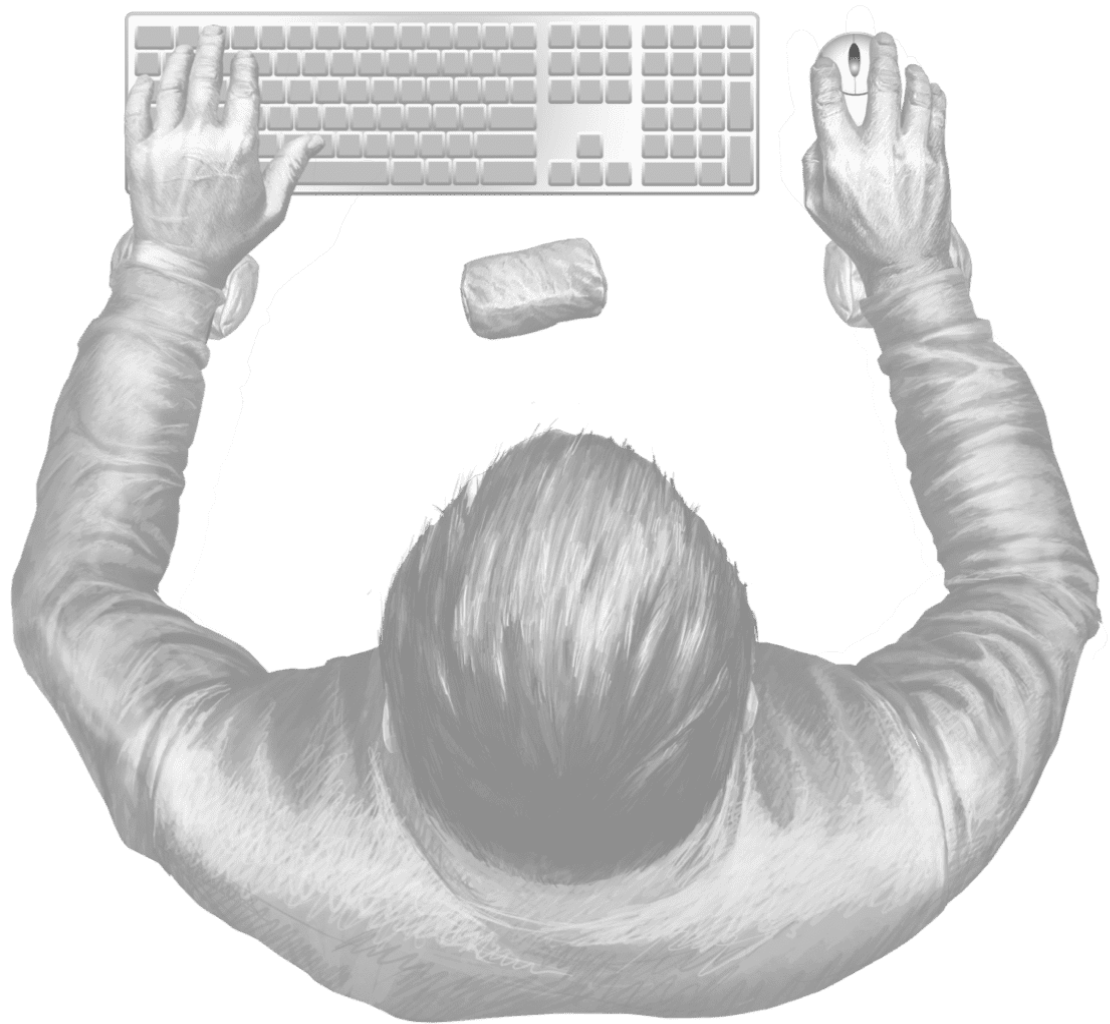
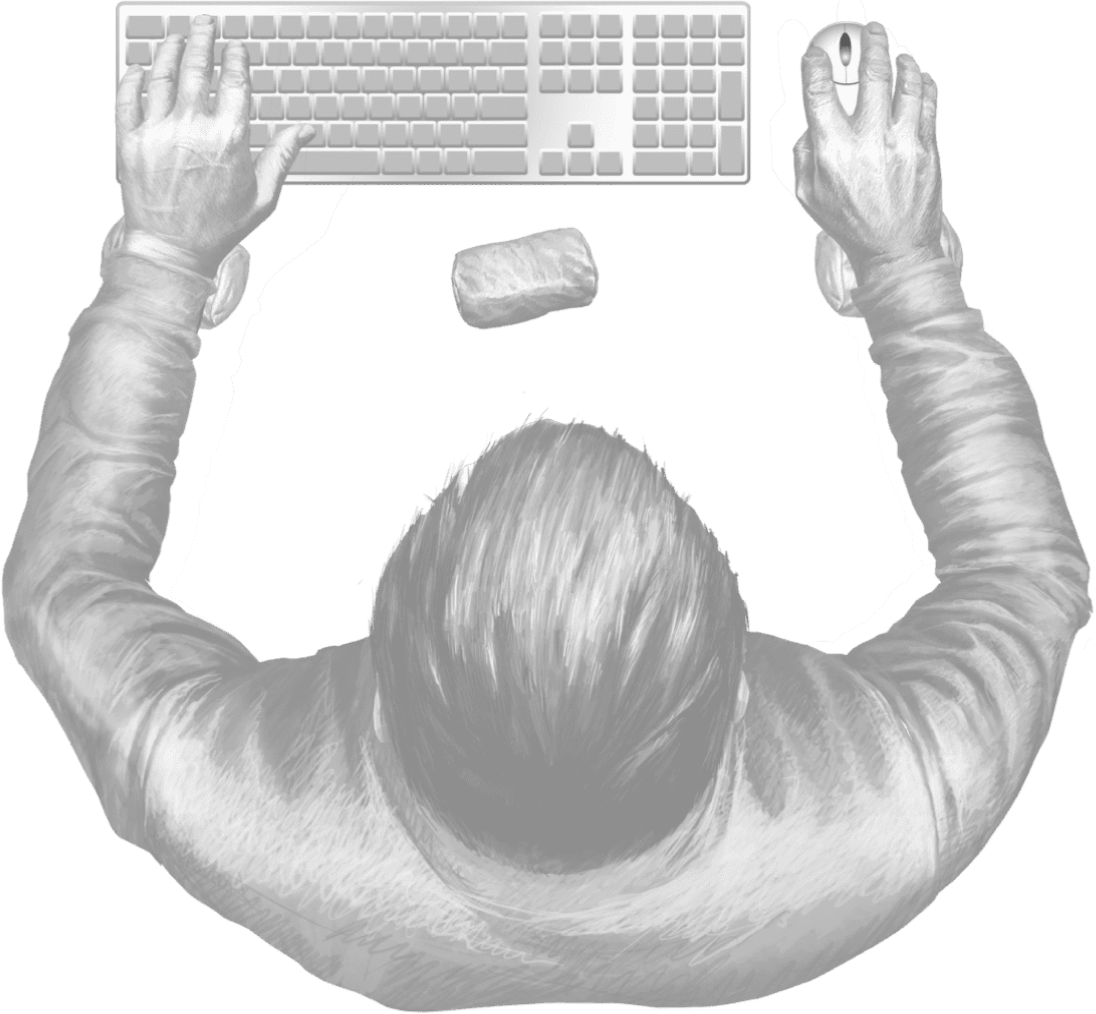
fix sizes

diff --git a/components/Section/Primate/primate.scss b/components/Section/Primate/primate.scss
@@ -11,17 +11,23 @@
     .title {
       position: relative;
       width: 907px;
-      margin: -5px 0 150.5px;
-      transform: translateX(-3px);
+      margin: 0 0 146.5px;
+      transform: translateX(-3px) translateY(-5px);
       font-weight: 800;
       font-size: 82px;
       line-height: 130%;
-      letter-spacing: -0.003em;
+      letter-spacing: 0.003em;
       text-transform: uppercase;
+
+      &.part-2 {
+        letter-spacing: 0.001em;
+        line-height: 134%;
+      }
     }
 
     .list {
       line-height: 185%;
+      letter-spacing: 0.0035em;
     }
   }
 
@@ -29,11 +35,12 @@
     position: relative;
     flex-shrink: 0;
     z-index: 1;
-    transform: translateX(3px);
+    transform: translateX(3px) translateY(1px);
+    margin: 9.5px 0 0 0;
     
     .image {
-      width: 729px;
-      height: 675px;
+      width: 737px;
+      height: 678px;
     }
   }
 }
@@ -43,7 +50,7 @@
   bottom: 0;
   right: 0;
   width: 1020px;
-  height: 249px;
+  height: 251px;
   background: $color-primary;
 
   &:after {
@@ -64,7 +71,7 @@
     width: 0;
     height: 0;
     border: 0 solid transparent;
-    border-top-width: 249px;
+    border-top-width: 252px;
     border-bottom-width: 0px;
     border-right: 80px solid $color-primary;
   }

diff --git a/components/Section/Hand/hand.scss b/components/Section/Hand/hand.scss
@@ -5,7 +5,7 @@
   grid-template-columns: repeat(3, minmax(0, 1fr));
   grid-auto-rows: 488px;
   grid-column-gap: 75px;
-  grid-row-gap: 30px;
+  grid-row-gap: 35px;
 }
 
 .block {
@@ -20,35 +20,35 @@
 .block-1 {
   grid-row-start: 1;
   grid-row-end: 3;
-  height: 675px;
+  height: 680px;
 
   .image {
     left: 0;
     bottom: 0;
-    width: 460px;
-    height: 601px;
+    width: 465px;
+    height: 605px;
   }
 }
 
 .block-2 {
-  height: 488px;
+  height: 492px;
 
   .image {
     right: 0;
     bottom: 37px;
-    width: 497px;
-    height: 375px;
+    width: 501px;
+    height: 380px;
   }
 }
 
 .block-3 {
-  height: 488px;
+  height: 492px;
 
   .image {
     right: 0;
     bottom: 0;
-    width: 462px;
-    height: 439px;
+    width: 467px;
+    height: 438px;
   }
 }
 
@@ -58,15 +58,18 @@
   height: 488px;
 
   .desc {
-    transform: translateX(-3px);
+    transform: translateX(-1px);
+    letter-spacing: 0.0045em;
+    line-height: 160%;
   }
 
   .title {
-    transform: translateX(-3px);
+    transform: translateX(-1px);
     width: calc(100% + 13px);
-    margin-top: 24px;
+    margin-top: 26px;
     font-weight: 800;
     font-size: 48.85px;
+    letter-spacing: 0.0053em;
     line-height: 120%;
     text-transform: uppercase;
   }

diff --git a/components/Section/Pads/Params/params.scss b/components/Section/Pads/Params/params.scss
@@ -4,16 +4,18 @@
   display: flex;
   align-items: flex-start;
   justify-content: space-between;
-  padding: 104px 0 133px 0;
+  padding: 104px 0 138px 0;
 }
 
 .list {
   font-style: normal;
   line-height: 185%;
+  letter-spacing: 0.004em;
+  transform: translate(-1px, 2px);
 }
 
 .props {
-  width: 400px;
+  width: 405px;
   line-height: 185%;
 
   .hint {
@@ -30,10 +32,18 @@
   display: flex;
   align-items: center;
   justify-content: space-between;
-  border-bottom: 1px solid $color-base;
+  margin: 0 0 -3.5px;
+  border-bottom: 0.5px solid $color-base;
+
+  &:nth-child(2) {
+    margin: 0 0 -3px;
+  }
+  &:last-of-type {
+    margin: 0;
+  }
 
   .alt {
-    margin-left: 8px;
+    margin-left: 12px;
     font-size: 19px;
     font-weight: 300;
   }

diff --git a/components/Section/Primate/Primate.vue b/components/Section/Primate/Primate.vue
@@ -3,12 +3,12 @@
 <template>
   <div class="section-1">
     <div class="text-side">
-      <div class="title">SUPPORT YOUR PALM & RELAX YOUR WRIST</div>
+      <div class="title"><span class="part-1">SUPPORT YOUR PALM</span> <span class="part-2">& RELAX YOUR WRIST</span></div>
       
       <ul class="list">
-        <li>•  All-natural, antibacterial and allergen-free.</li>
-        <li>•  Newest US invention for computer users.</li>
-        <li>•  Provides support, comfort and mobility.</li>
+        <li>•&nbsp;&nbsp;All-natural, antibacterial and allergen-free.</li>
+        <li>•&nbsp;&nbsp;Newest US invention for computer users.</li>
+        <li>•&nbsp;&nbsp;Provides support, comfort and mobility.</li>
       </ul>
     </div>
 

diff --git a/components/Section/Pads/Params/Params.vue b/components/Section/Pads/Params/Params.vue
@@ -3,9 +3,9 @@
 <template>
   <div class="wrapper">
     <ul class="list">
-      <li>•  Set of three cushions handmade by traditional techniques.</li>
-      <li>•  Designed to conform and glide with hand, no matter the keyboard or mouse You use.</li>
-      <li>•  Strength and durable, soft and resilient, self-sanitizes and machine washable, etc.</li>
+      <li>•&nbsp;&nbsp;Set of three cushions handmade by traditional techniques.</li>
+      <li>•&nbsp;&nbsp;Designed to conform and glide with hand, no matter the keyboard or mouse You use.</li>
+      <li>•&nbsp;&nbsp;Strength and durable, soft and resilient, self-sanitizes and machine washable, etc.</li>
     </ul>
 
     <div class="props">

diff --git a/components/Section/Hand/Hand.vue b/components/Section/Hand/Hand.vue
@@ -27,7 +27,7 @@
       </nuxt-img>
     </div>
     <div class="block-4">
-      <p class="desc">Use this set of three cushions for palm Support, Massage and Exercises. Work Comfortably all day with no Pain and no Fatigue.</p>
+      <p class="desc">Use this set of three cushions for palms Support, Massage and Exercises. Work Comfortably all day with no Pain and no Fatigue.</p>
       <p class="title">IT’S ALL THANKS TO THE NATURAL WRIST REST<span class="r">®</span></p>
     </div>
   </div>

diff --git a/components/The/Header/header.scss b/components/The/Header/header.scss
@@ -2,7 +2,7 @@
 
 .header {
   display: flex;
-  align-items: center;
+  align-items: baseline;
   justify-content: space-between;
   padding: 20px 0;
 }
@@ -12,6 +12,8 @@
   font-weight: 600;
   line-height: 100%;
   text-transform: uppercase;
+  transform: translateX(-2px);
+  letter-spacing: 0.005em;
 }
 
 .menu {
@@ -36,7 +38,7 @@
 
 .btn {
   &--header {
-    width: 167px;
+    width: 170px;
   }
 }
 

diff --git a/layouts/default.vue b/layouts/default.vue
@@ -4,6 +4,7 @@
 
   const scaleStyle = computed(() => {
     let scale = windowWidth.value / 1933
+    //scale = 1 
     return "transform: translate(0%, 0%) " + "scale(" + scale + ")"
   })
 

diff --git a/components/Section/Pads/pads.scss b/components/Section/Pads/pads.scss
@@ -4,7 +4,7 @@
   display: flex;
   align-items: center;
   justify-content: space-between;
-  padding: 188px 0;
+  padding: 191px 0;
 }
 
 .item {
